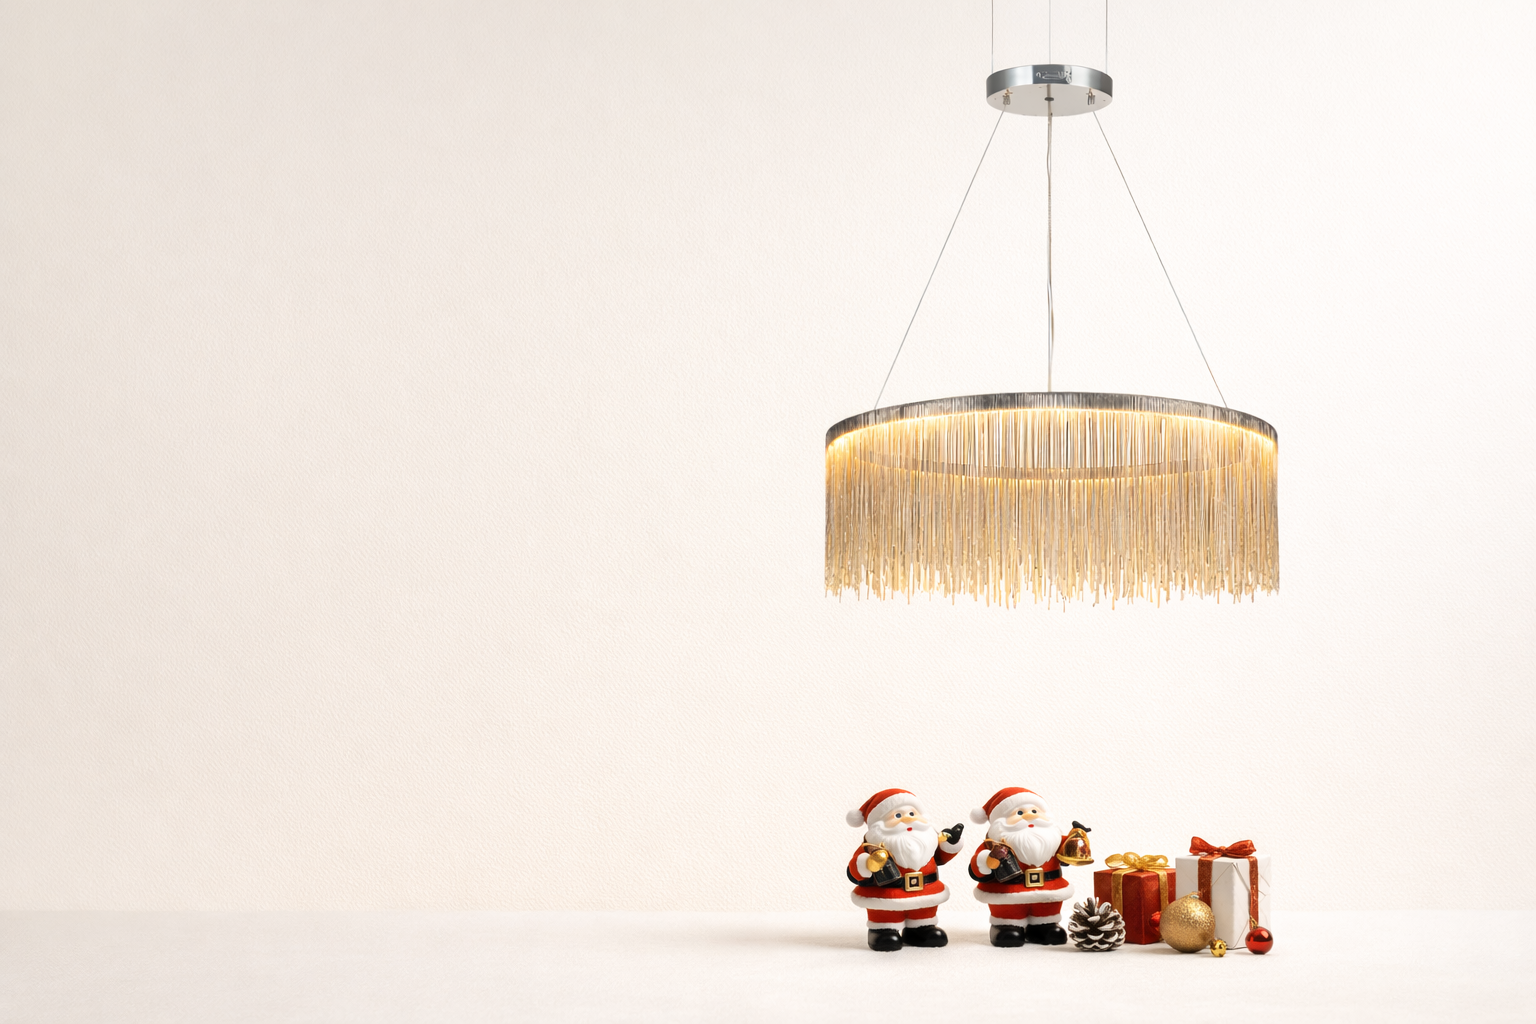
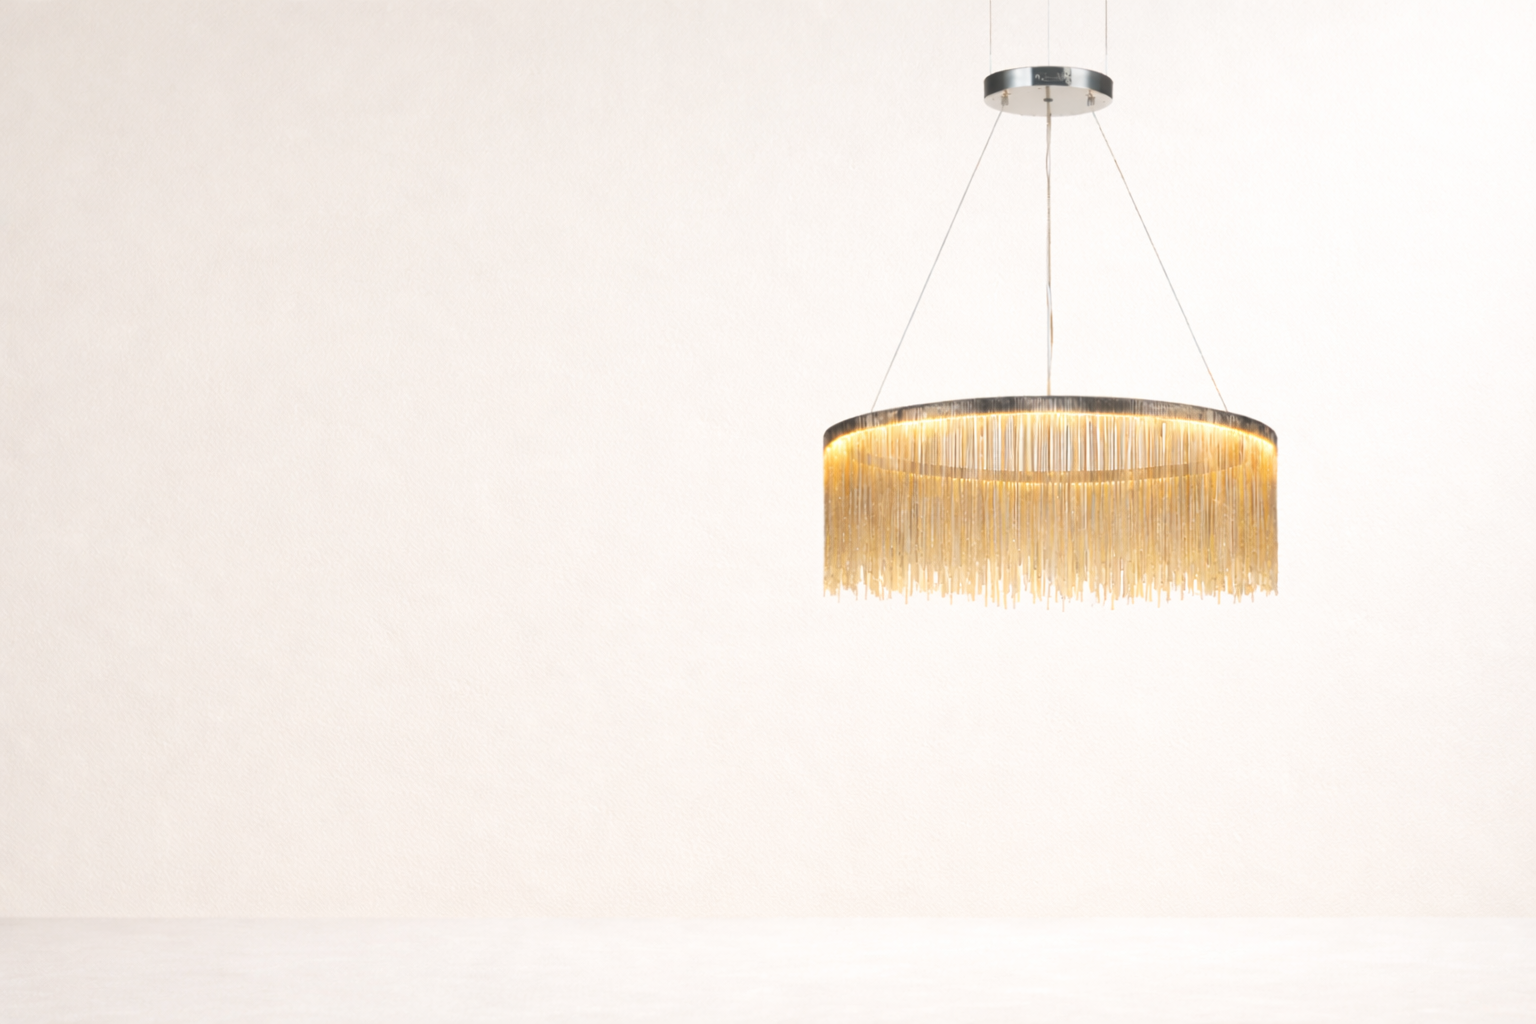
feat: implement category API integration and enhance MegaNavbar with dynamic subcategory images

Changed region(s): [[0.5312, 0.375, 0.8438, 0.5938], [0.4688, 0.75, 0.8438, 0.9375], [0.625, 0.0625, 0.7188, 0.0938]]

diff --git a/src/pages/Collections.tsx b/src/pages/Collections.tsx
@@ -38,6 +38,7 @@ export default function Collections() {
   const { products: allProducts, setProducts: setAllProducts } = useProductStore();
   const [filteredProducts, setFilteredProducts] = useState<Product[]>([]);
   const [categories, setCategories] = useState<Category[]>([]);
+  const [expandedCategory, setExpandedCategory] = useState<string | null>(null);
   const [loading, setLoading] = useState(false);
   const [loadingMore, setLoadingMore] = useState(false);
   const [page, setPage] = useState(1);
@@ -94,21 +95,40 @@ export default function Collections() {
         setHasMore(false);
       }
       
-      if (fetchedProducts.length === 0) {
-        return;
-      }
-      
       const newProducts = reset ? fetchedProducts : [...allProducts, ...fetchedProducts];
       setAllProducts(newProducts);
       
-      // Load categories from localStorage if available
-      const storedCategories = localStorage.getItem('azzaro_categories');
-      if (storedCategories) {
-        try {
-          const parsedCategories = JSON.parse(storedCategories);
-          setCategories(parsedCategories);
-        } catch (e) {
-          console.error('Error parsing stored categories:', e);
+      // Load categories from localStorage if available, or fetch from API
+      if (categories.length === 0) {
+        const storedCategories = localStorage.getItem('azzaro_categories');
+        if (storedCategories) {
+          try {
+            const parsedCategories = JSON.parse(storedCategories);
+            setCategories(parsedCategories);
+          } catch (e) {
+            console.error('Error parsing stored categories:', e);
+          }
+        } else {
+          // Fetch categories from API if not in localStorage
+          try {
+            const { CategoryApiService } = await import('@/lib/categoryApi');
+            const fetchedCategories = await CategoryApiService.fetchCategories();
+            // Transform ApiCategory to Category format
+            const transformedCategories = fetchedCategories.map(cat => ({
+              ...cat,
+              image: cat.image_url || '',
+              productCount: 0,
+              subcategories: cat.subcategories.map(sub => ({
+                ...sub,
+                description: sub.description || sub.name || '',
+                image: sub.image_url || ''
+              }))
+            }));
+            setCategories(transformedCategories);
+            localStorage.setItem('azzaro_categories', JSON.stringify(transformedCategories));
+          } catch (error) {
+            console.error('Failed to load categories:', error);
+          }
         }
       }
       
@@ -137,12 +157,51 @@ export default function Collections() {
     return () => window.removeEventListener('scroll', handleScroll);
   }, [loadingMore, hasMore]);
 
+  // Load categories on component mount
+  useEffect(() => {
+    const loadCategories = async () => {
+      const storedCategories = localStorage.getItem('azzaro_categories');
+      if (storedCategories) {
+        try {
+          const parsedCategories = JSON.parse(storedCategories);
+          setCategories(parsedCategories);
+        } catch (e) {
+          console.error('Error parsing stored categories:', e);
+        }
+      } else {
+        try {
+          const { CategoryApiService } = await import('@/lib/categoryApi');
+          const fetchedCategories = await CategoryApiService.fetchCategories();
+          // Transform ApiCategory to Category format
+          const transformedCategories = fetchedCategories.map(cat => ({
+            ...cat,
+            image: cat.image_url || '',
+            productCount: 0,
+            subcategories: cat.subcategories.map(sub => ({
+              ...sub,
+              description: sub.description || sub.name || '',
+              image: sub.image_url || ''
+            }))
+          }));
+          setCategories(transformedCategories);
+          localStorage.setItem('azzaro_categories', JSON.stringify(transformedCategories));
+        } catch (error) {
+          console.error('Failed to load categories:', error);
+        }
+      }
+    };
+    loadCategories();
+  }, []);
+
   // Load initial products and reload when filters change
   useEffect(() => {
     setPage(1);
     setHasMore(true);
-    loadProducts(1, true);
-  }, [category, priceRange]);
+    // Only load products if categories are loaded
+    if (categories.length > 0 || !category) {
+      loadProducts(1, true);
+    }
+  }, [category, priceRange, categories]);
 
   useEffect(() => {
     if (page > 1) {
@@ -356,34 +415,40 @@ export default function Collections() {
                       All Products
                     </Link>
                     {categories.map((cat) => (
-                      <div key={cat.id}>
-                        <Link
-                          to={`/collections/${cat.slug}`}
-                          className={`block text-sm font-medium transition-colors ${
-                            category === cat.slug
-                              ? 'text-primary'
-                              : 'text-muted-foreground hover:text-foreground'
-                          }`}
+                      <div key={cat.id} className="relative">
+                        <div
+                          onMouseEnter={() => setExpandedCategory(cat.id)}
+                          onMouseLeave={() => setExpandedCategory(null)}
+                          onClick={() => setExpandedCategory(expandedCategory === cat.id ? null : cat.id)}
                         >
-                          {cat.name}
-                        </Link>
-                        {cat.subcategories && cat.subcategories.length > 0 && (
-                          <div className="ml-4 mt-2 space-y-2">
-                            {cat.subcategories.map((subcat: Subcategory) => (
-                              <Link
-                                key={subcat.id}
-                                to={`/collections/${subcat.slug}`}
-                                className={`block text-xs transition-colors ${
-                                  category === subcat.slug
-                                    ? 'text-primary'
-                                    : 'text-muted-foreground hover:text-foreground'
-                                }`}
-                              >
-                                {subcat.name}
-                              </Link>
-                            ))}
-                          </div>
-                        )}
+                          <Link
+                            to={`/collections/${cat.slug}`}
+                            className={`block text-sm font-medium transition-colors ${
+                              category === cat.slug
+                                ? 'text-primary'
+                                : 'text-muted-foreground hover:text-foreground'
+                            }`}
+                          >
+                            {cat.name}
+                          </Link>
+                          {(expandedCategory === cat.id || category === cat.slug) && cat.subcategories && cat.subcategories.length > 0 && (
+                            <div className="ml-4 mt-2 space-y-2">
+                              {cat.subcategories.map((subcat: Subcategory) => (
+                                <Link
+                                  key={subcat.id}
+                                  to={`/collections/${subcat.slug}`}
+                                  className={`block text-xs transition-colors ${
+                                    category === subcat.slug
+                                      ? 'text-primary'
+                                      : 'text-muted-foreground hover:text-foreground'
+                                  }`}
+                                >
+                                  {subcat.name}
+                                </Link>
+                              ))}
+                            </div>
+                          )}
+                        </div>
                       </div>
                     ))}
                   </div>

diff --git a/src/components/MegaNavbar.tsx b/src/components/MegaNavbar.tsx
@@ -12,6 +12,7 @@ export interface NavCategory {
   name: string;
   href: string;
   subcategories?: NavSubcategory[];
+  image?: string;
   featured?: {
     title: string;
     image: string;
@@ -45,6 +46,7 @@ export function MegaNavbar({
   cartItemCount = 0,
 }: MegaNavbarProps) {
   const [activeCategory, setActiveCategory] = useState<string | null>(null);
+  const [hoveredSubcategory, setHoveredSubcategory] = useState<string | null>(null);
   const [isMobileMenuOpen, setIsMobileMenuOpen] = useState(false);
   const timeoutRef = useRef<NodeJS.Timeout | null>(null);
   const navRef = useRef<HTMLDivElement>(null);
@@ -77,7 +79,7 @@ export function MegaNavbar({
   }, []);
 
   const activeCategoryData = categories.find((c) => c.name === activeCategory);
-
+  console.log('Rendering MegaNavbar with categories:', activeCategoryData);
   return (
     <>
       <nav
@@ -206,11 +208,13 @@ export function MegaNavbar({
                       key={sub.name}
                       href={sub.href}
                       className="group flex items-center gap-3 py-2 text-muted-foreground hover:text-primary transition-colors"
+                      onMouseEnter={() => setHoveredSubcategory(sub.name)}
+                      onMouseLeave={() => setHoveredSubcategory(null)}
                     >
-                      {sub.image && (
+                      {(sub.image) && (
                         <div className="w-12 h-12 rounded overflow-hidden bg-muted flex-shrink-0">
                           <img
-                            src={sub.image}
+                            src={sub.image || activeCategoryData?.image}
                             alt={sub.name}
                             className="w-full h-full object-cover group-hover:scale-105 transition-transform duration-300"
                           />
@@ -239,32 +243,39 @@ export function MegaNavbar({
 
               {/* Featured Image */}
               <div className="col-span-4">
-                {activeCategoryData?.featured ? (
-                  <a
-                    href={activeCategoryData.featured.href}
-                    className="block group"
-                  >
-                    <div className="relative aspect-[4/3] overflow-hidden rounded-lg bg-muted">
-                      <img
-                        src={activeCategoryData.featured.image}
-                        alt={activeCategoryData.featured.title}
-                        className="w-full h-full object-cover group-hover:scale-105 transition-transform duration-500"
-                      />
-                      <div className="absolute inset-0 bg-gradient-to-t from-background/80 to-transparent" />
-                      <div className="absolute bottom-4 left-4 right-4">
-                        <p className="text-foreground font-medium text-lg">
-                          {activeCategoryData.featured.title}
-                        </p>
+                {(() => {
+                  const hoveredSub = hoveredSubcategory ? activeCategoryData?.subcategories?.find(s => s.name === hoveredSubcategory) : null;
+                  const displayImage = hoveredSub?.image || activeCategoryData?.image;
+                  const displayTitle = hoveredSub?.name || activeCategoryData?.name;
+                  const displayHref = hoveredSub?.href || activeCategoryData?.href;
+                  
+                  return displayImage ? (
+                    <a
+                      href={displayHref}
+                      className="block group"
+                    >
+                      <div className="relative aspect-[4/3] overflow-hidden rounded-lg bg-muted">
+                        <img
+                          src={displayImage}
+                          alt={displayTitle}
+                          className="w-full h-full object-cover group-hover:scale-105 transition-transform duration-500"
+                        />
+                        <div className="absolute inset-0 bg-gradient-to-t from-background/80 to-transparent" />
+                        <div className="absolute bottom-4 left-4 right-4">
+                          <p className="text-foreground font-medium text-lg">
+                            {displayTitle}
+                          </p>
+                        </div>
                       </div>
+                    </a>
+                  ) : (
+                    <div className="aspect-[4/3] bg-muted rounded-lg flex items-center justify-center">
+                      <span className="text-muted-foreground text-sm">
+                        {displayTitle || 'Featured Content'}
+                      </span>
                     </div>
-                  </a>
-                ) : (
-                  <div className="aspect-[4/3] bg-muted rounded-lg flex items-center justify-center">
-                    <span className="text-muted-foreground text-sm">
-                      Featured Content
-                    </span>
-                  </div>
-                )}
+                  );
+                })()}
               </div>
             </div>
           </div>

diff --git a/src/components/layout/Header.tsx b/src/components/layout/Header.tsx
@@ -8,19 +8,8 @@ import { useUserStore } from '@/store/userStore';
 import { Button } from '@/components/ui/button';
 import { cn } from '@/lib/utils';
 import { MegaNavbar } from '../MegaNavbar';
-import { sampleNavCategories } from "@/data/sampleNavData";
+import { CategoryApiService, type ApiCategory } from '@/lib/categoryApi';
 import { toast } from "sonner";
-
-const categories = [
-  { name: 'Bath Fittings', slug: 'bath-fittings' },
-  { name: 'Hardware', slug: 'hardware' },
-  { name: 'Lighting', slug: 'lighting' },
-  { name: 'Fans', slug: 'fans' },
-  { name: 'Home Decor', slug: 'home-decor' },
-  { name: 'Furniture', slug: 'furniture' },
-  { name: 'Carpet & Rugs', slug: 'carpet-rugs' },
-  { name: 'Perfume', slug: 'perfume' },
-];
 
 const navigation = [
   { name: 'Home', href: '/' },
@@ -31,6 +20,7 @@ const navigation = [
 export function Header() {
   const [isScrolled, setIsScrolled] = useState(false);
   const [isMobileMenuOpen, setIsMobileMenuOpen] = useState(false);
+  const [categories, setCategories] = useState<any[]>([]);
   const location = useLocation();
   const navigate = useNavigate();
   const { cart, openCart } = useCartStore();
@@ -43,6 +33,27 @@ export function Header() {
     };
     window.addEventListener('scroll', handleScroll);
     return () => window.removeEventListener('scroll', handleScroll);
+  }, []);
+
+  useEffect(() => {
+    const loadCategories = async () => {
+      const fetchedCategories = await CategoryApiService.fetchCategories();
+      // Transform API categories to NavCategory format
+      const transformedCategories = fetchedCategories.map(cat => ({
+        id: cat.id,
+        name: cat.name,
+        href: `/collections/${cat.slug}`,
+        image: cat.image_url,
+        subcategories: cat.subcategories.map(sub => ({
+          id: sub.id,
+          name: sub.name,
+          href: `/collections/${sub.slug}`,
+          image: sub.image_url
+        }))
+      }));
+      setCategories(transformedCategories);
+    };
+    loadCategories();
   }, []);
 
   useEffect(() => {
@@ -199,7 +210,7 @@ export function Header() {
         </div>
         {/* <div className="container mx-auto px-4 lg:px-8"> */}
         <MegaNavbar
-        categories={sampleNavCategories}
+        categories={categories}
         showSearch={false}
         showUserIcon={false}
         showCartIcon={false}

diff --git a/src/lib/categoryApi.ts b/src/lib/categoryApi.ts
@@ -1,0 +1,35 @@
+const BACKEND_URL = import.meta.env.VITE_BACKEND_URL || 'http://localhost:3001';
+
+export interface ApiCategory {
+  id: string;
+  name: string;
+  slug: string;
+  description: string;
+  image_url: string | null;
+  subcategories: {
+    id: string;
+    name: string;
+    slug: string;
+    image_url: string | null;
+    description: string | null;
+  }[];
+}
+
+export class CategoryApiService {
+  static async fetchCategories(): Promise<ApiCategory[]> {
+    try {
+      const response = await fetch(`${BACKEND_URL}/api/categories`);
+      
+      if (!response.ok) {
+        throw new Error(`HTTP error! status: ${response.status}`);
+      }
+      
+      const data = await response.json();
+      return data.data || [];
+      
+    } catch (error) {
+      console.error('Failed to fetch categories:', error);
+      return [];
+    }
+  }
+}

diff --git a/src/pages/Contact.tsx b/src/pages/Contact.tsx
@@ -45,7 +45,7 @@ export default function Contact() {
       <CartDrawer />
 
       {/* Hero */}
-      <section className="pt-32 pb-16 bg-card/30 border-b border-border">
+      <section className="pt-[20vh] pb-16 bg-card/30 border-b border-border">
         <div className="container mx-auto px-4 lg:px-8">
           <motion.div
             initial={{ opacity: 0, y: 20 }}
